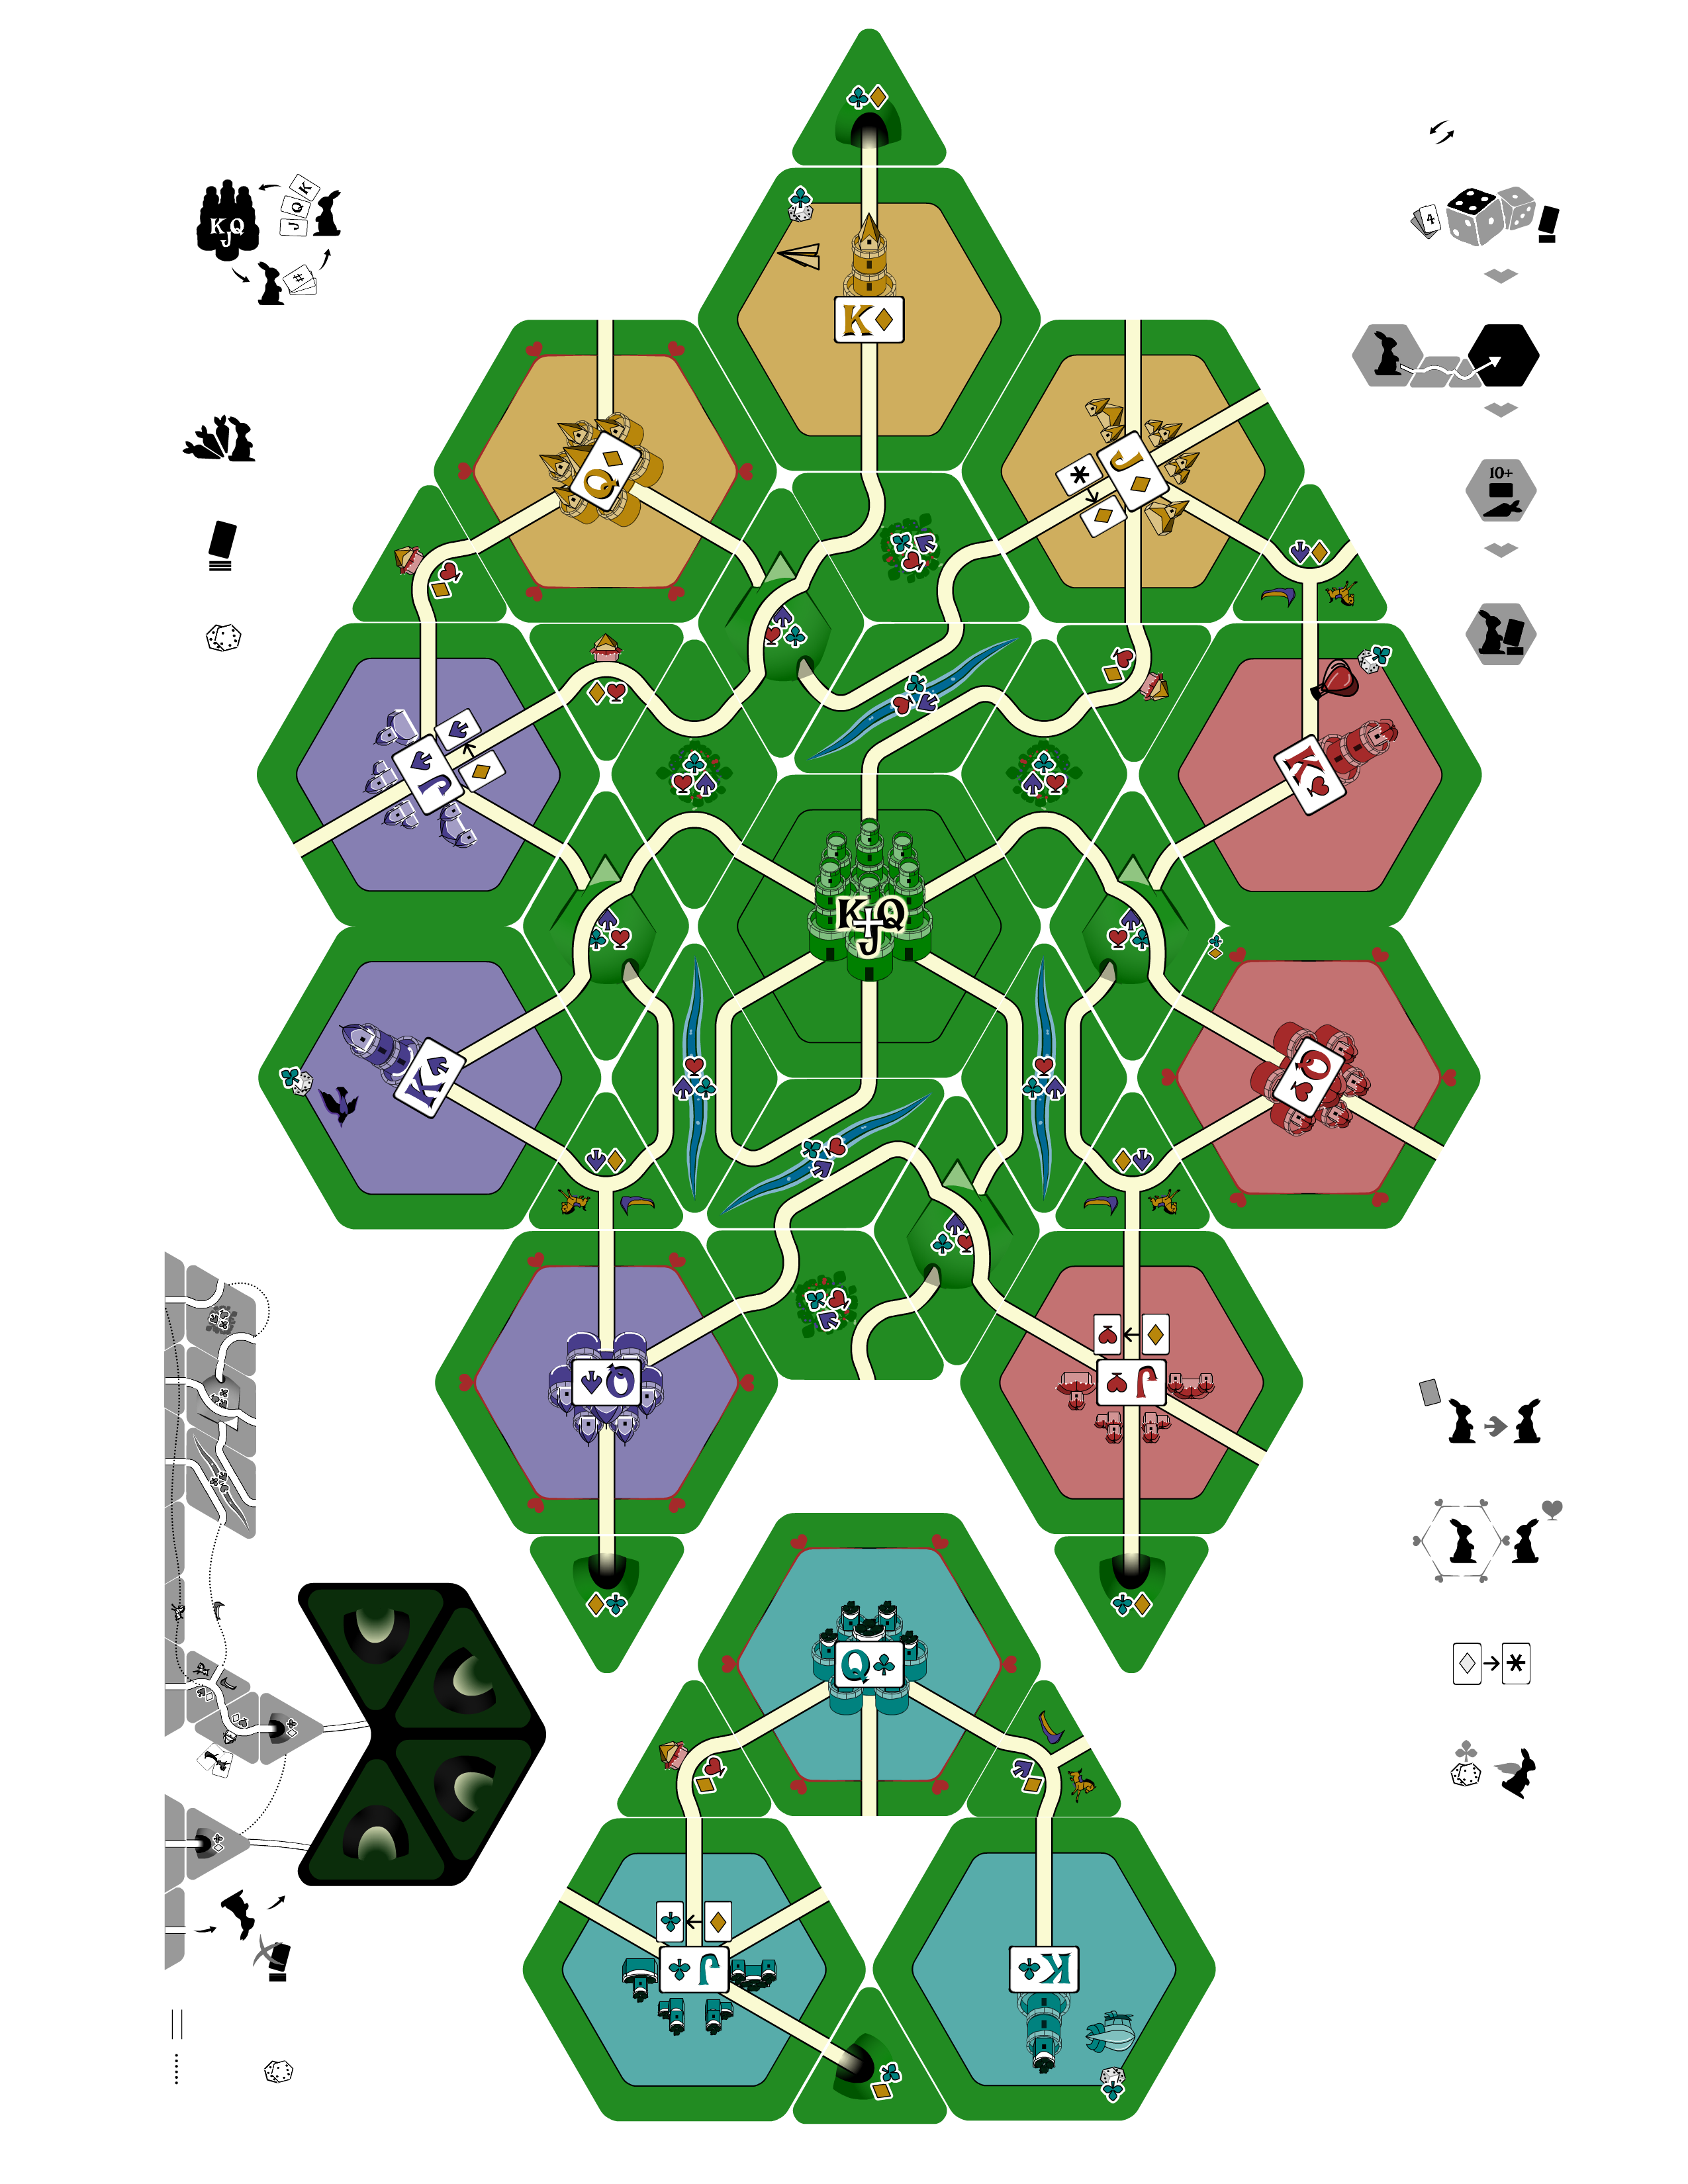
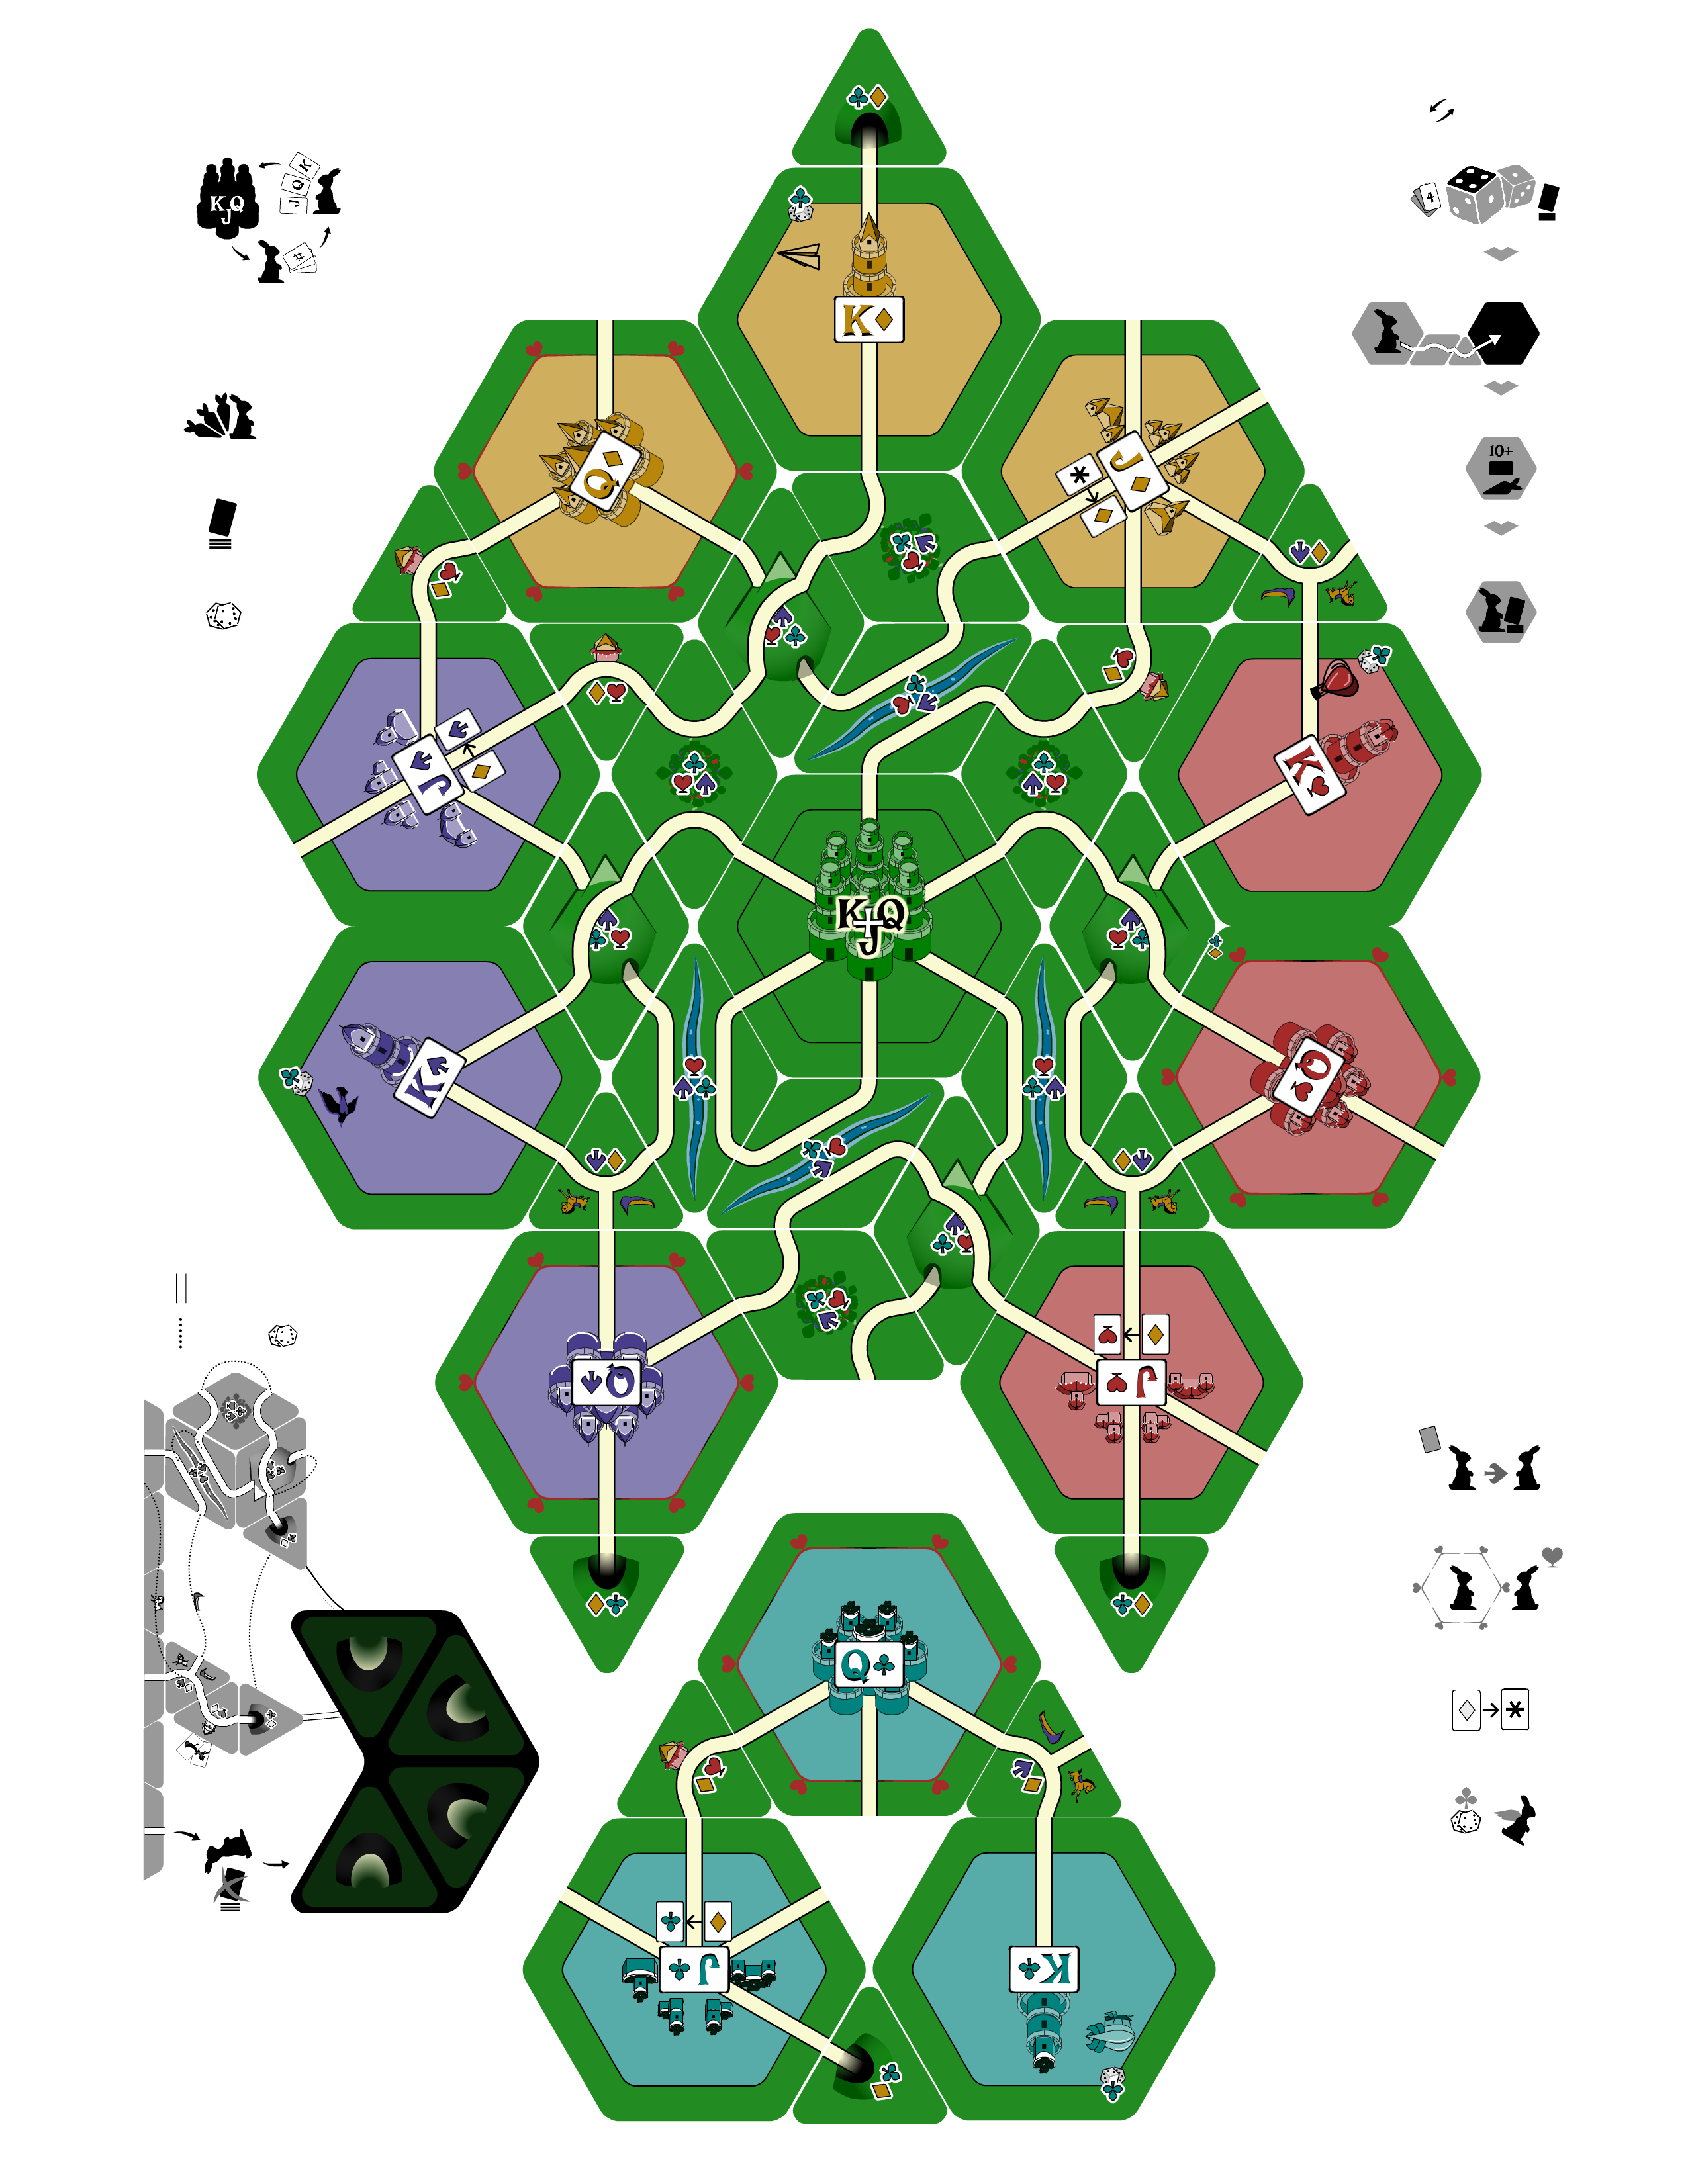
update

diff --git a/src/pages/sections/turns.js b/src/pages/sections/turns.js
@@ -7,8 +7,8 @@ const turnSections = [{
   a_button_play_song: Song.List[2].btn,
   img: new MediaFigure("lottery"),
   h3: Copy.text({
-    es: "1<small>.a</small> </br>La lotería",
-    en: "1<small>st</small> </br>The Lottery",
+    es: "Lotería",
+    en: "Lottery",
   }),
   p: versify(Copy.text({
     es: [
@@ -21,7 +21,7 @@ const turnSections = [{
       `22.5|El límite de cartas es de nueve. 
       Descarta la que quieras si te excedes.*`,
       `30.5|Conserva el resultado de los dados. 
-      Los usas en <a onclick="popUp('price')"><b>el precio</b></a> de traslados.`,
+      Los usas en el <a onclick="popUp('price')"><b>precio</b></a> de traslados.`,
     ],
     en: [
       `5|Start your turns by rolling dice,
@@ -33,15 +33,15 @@ const turnSections = [{
       `21.5|Please discard if caught with ten.
       Bring your hand to nine again.*`,
       `27|Hold the outcome of the dice.
-      Transfers use it as <a onclick="popUp('price')"><b>the price</b></a>.`
+      Transfers use it as the <a onclick="popUp('price')"><b>price</b></a>.`
     ]
   })),
   b_nextArrow: '➧',
 }, {
   img: new MediaFigure("journey"),
   h3: Copy.text({
-    es: "2<small>.a</small></br> La travesía",
-    en: "2<small>nd</small></br> The Journey",
+    es: "Travesía",
+    en: "Journey",
   }),
   p: versify(Copy.text({
     es: [
@@ -54,7 +54,7 @@ const turnSections = [{
       `57.5|Moverte de la pieza es opcional. 
       Depende de tu meta a visitar.`,
       `65.5|Podrías expandir tus travesías. 
-      Consulta <a href="#intro/transfers"><b>los traslados</b></a> en las vías.`
+      Consulta los <a href="#intro/transfers"><b>traslados</b></a> en las vías.`
     ],
     en: [
       `38|You may choose a path to exit, 
@@ -66,15 +66,15 @@ const turnSections = [{
       `54.5|Move on closer to your goal.
       Or perhaps don't move at all.`,
       `59.5|You may switch your travel mode.
-      See <a href="#intro/transfers"><b>the transfers</b></a> off the road.`,
+      See the <a href="#intro/transfers"><b>transfers</b></a> off the road.`,
     ]
   })),
   b_nextArrow: '➧',
 }, {
   img: new MediaFigure("acquisition"),
   h3: Copy.text({
-    es: "3<small>.a</small></br> La adquisición",
-    en: "3<small>rd</small></br> The Acquisition",
+    es: "Adquisición",
+    en: "Acquisition",
   }),
   p: versify(Copy.text({
     es: [
@@ -87,7 +87,7 @@ const turnSections = [{
       `92.5|Es gratis acceder a los hexágonos. 
       Procura detenerte visitándolos.`,
       `100|Conserva lo que adquieras en tu mano. 
-      Reclama <b>el incremento</b> de inmediato.`,
+      Reclama el <b>incremento</b> de inmediato.`,
     ],
     en: [
       `70.5|It’s your goal to claim the card—
@@ -99,15 +99,15 @@ const turnSections = [{
       `87|You may always be a guest.
       Make no claim and stop to rest.`,
       `92|Keep the royals in your hands.
-      Get <b>the increment</b> at once.`,
+      Get the <b>increment</b> at once.`,
     ]
   })),
   b_nextArrow: '➧',
 }, {
   img: new MediaFigure("increment"),
   h3: Copy.text({
-    es: "4<small>.a</small></br> El Incremento",
-    en: "4<small>th</small></br> The increment",
+    es: "Incremento",
+    en: "Increment",
   }),
   p: versify(Copy.text({
     es: [
@@ -120,7 +120,7 @@ const turnSections = [{
       `127|*Respeta lo del límite de cartas. 
       O ignóralo si nadie se percata.`,
       `135|**Podrías terminar sin incremento. 
-      Revísate <a href="#intro/off"><b>el destierro</b></a> en su segmento.`,
+      Revísate el <a href="#intro/off"><b>destierro</b></a> en su segmento.`,
     ],
     en: [
       `103|End your turns on a hex tile—

diff --git a/src/pages/sections/options.js b/src/pages/sections/options.js
@@ -72,17 +72,13 @@ const optionalSections = [
         p: versify(
           Copy.text({
             es: `Si eliges la <a class="pop" onclick="popUp('advancedCitadel', event)">carátula de atrás</a>,
-      incluyes estrategias importantes:
-      cuestionas corazones al entrar,
-      canjeas lo que quieras con diamantes,
-      y puedes con tus tréboles volar
-      con palos cualesquiera de restante.`,
-            en: `There are three depicted assets,
-      on this <a class="pop" onclick="popUp('advancedCitadel', event)">flip-side tile</a> reboot:
-      vet the hearts to grant the access;
-      buy with diamonds any loot; 
-      show your clubs for flying passes—
-      shortfall’s paid in any suit.`,
+              canjeas lo que quieras con diamantes,
+              cuestionas corazones y, al volar,
+              descartas con cualquiera lo restante.`,
+            en: `If the citadel's <a class="pop" onclick="popUp('advancedCitadel', event)">flipped over</a>:
+              buy with diamonds any loot,
+              vet with hearts and fly with clovers—
+              shortfall's paid in any suit.`,
           }),
         ),
       },
@@ -243,7 +239,7 @@ const optionalSections = [
       Contempla al escoger el <a class="pop" onclick="popUp('endings', event)">fin del juego</a>
       si acaso es imposible de obtener.`,
             en: `Have as many suits as players—
-royals scarce and roads reduced. 
+      royals scarce and roads reduced. 
       Say there's only three contenders, 
       then <a class="pop" onclick="popUp('roadTiles', event)">remove a set</a> and suit.
       Pick a fitting kind of ending:

diff --git a/src/pages/sections/transfers.js b/src/pages/sections/transfers.js
@@ -9,8 +9,8 @@ import Song from "../../elements/Song.js";
 const transferSections = [{
   a_button_play_song: Song.List[3].btn,
   h3: Copy.text({
-    es: "Los Traslados",
-    en: "The Transfers",
+    es: "Traslados",
+    en: "Transfers",
   }),
   p: versify(Copy.text({
     es: `3|Es gratis desplazarte a los hexágonos
@@ -19,13 +19,13 @@ const transferSections = [{
       se cruzan con sus túneles gratuitos.
       Se paga solamente los traslados,
       marcados a mitad de los polígonos;
-      <a onclick="popUp('price')"><b>el precio</b></a> es el fijado por los dados
+      el <a onclick="popUp('price')"><b>precio</b></a> es el fijado por los dados
       y pagas con las cartas de sus símbolos.`,
     en: `5|If you venture on the paths, 
       you'll move freely on your round.
       This includes the underpass,
       found in mountains farther down.
-      Other moves demand <a onclick="popUp('price')"><b>the price</b></a>,
+      Other moves demand the p<a onclick="popUp('price')"><b>rice</b></a>,
       paid in suits upon the ground.
       Pay the total on your dice—
       that's the minimum amount.`,
@@ -120,17 +120,17 @@ const transferSections = [{
   },
   h3: {
     html: Copy.text({
-      es: "El Destierro",
+      es: "Destierro",
       en: "Off-board",
     })
   },
   p_: versify(Copy.text({
     es: `127|A veces te conviene que salieras,
       cayendo de un camino a las orillas.
-      Olvida <b>el incremento</b> si lo hicieras
+      Olvida el <b>incremento</b> si lo hicieras
       y acaba con el turno a la deriva.
-      Mantén <b>la lotería</b> en las afueras,
-      y en vez de ejecutar <b>la travesía</b>,
+      Mantén la <b>lotería</b> en las afueras,
+      y en vez de ejecutar la <b>travesía</b>,
       te mueves al <a class="pop" onclick="popUp('underground', event)"><i>subsuelo</i></a> en el que esperas
       y eliges a la vuelta la salida.`,
     en: `118.5|If you venture off the board,

diff --git a/src/pages/setup.js b/src/pages/setup.js
@@ -9,15 +9,15 @@ const setupPage = {
     dataLyrics: 1,
     header: {
       h2: Copy.text({
-        es: "Prepara La Partida",
-        en: "Setting up the Game",
+        es: "Inicio de Partida",
+        en: "Game Setup",
       }),
     },
     section: [{
       a_button_play_song: Song.List[1].btn,
       h3: "1. </br>" + Copy.text({
         es: "Arma el tablero",
-        en: "Set the Board",
+        en: "Build the Board",
       }),
       p: versify(
         Copy.text({
@@ -60,8 +60,8 @@ const setupPage = {
         })),
     }, {
       h3: "2. </br>" + Copy.text({
-        es: "Reparte las cartas",
-        en: "Set the cards",
+        es: "Prepara las cartas",
+        en: "Prepare the cards",
       }),
       css: {
         ':nth-child(3)': {
@@ -106,8 +106,8 @@ const setupPage = {
         }))
     }, {
       h3: "3. </br>" + Copy.text({
-        es: "Sitúa las fichas",
-        en: "Set the tokens",
+        es: "Coloca las fichas",
+        en: "Place the tokens",
       }),
       p: versify(
         Copy.text({

diff --git a/src/pages/sections/strategies.js b/src/pages/sections/strategies.js
@@ -117,8 +117,8 @@ const strategySections = [{
   p: versify(Copy.text({
     es: [
       `11|Preséntate con carta pasaporte:
-      un trébol al lanzar <b>la lotería</b>,
-      y harás <b>la travesía</b> por las torres
+      un trébol al lanzar la <b>lotería</b>,
+      y harás la <b>travesía</b> por las torres
       si no lo sobrepasa lo que tiras.
       Igual el pasaporte lo recoges
       y el premio si un acierto se confirma.`,
@@ -133,11 +133,11 @@ const strategySections = [{
     ],
     en: [
       `10.5|Show one card before you roll,
-      cast <b>the journey</b> to the skies.
+      cast the <b>journey</b> to the skies.
       Pick a tower as a goal,
       if it beats the dice or ties. 
       Or you’ll miss the board and fall—
-      play <b>the lottery</b> likewise.
+      play the <b>lottery</b> likewise.
       Dropped off-board or standing tall,
       tumblers keep the card that tries.`,
       `43.5|Land your flight and don’t fall off,
@@ -173,7 +173,7 @@ const strategySections = [{
       procedes al asalto de sus cartas:
       le robas la primera que tocases,
       a ciegas deberás seleccionarla.
-      Te toca <b>el incremento</b> y que la marques,
+      Te toca el <b>incremento</b> y que la marques,
       si robas y la carta es de monarca;
       también elegirás la que descartes
       si acaso la que robas es tu cuarta.`,
@@ -196,7 +196,7 @@ const strategySections = [{
       If your target wins the war,
       they can’t steal a card you hoard.
       If you steal a royal card,
-      set <b>the acquisition</b> forth:
+      set the <b>acquisition</b> forth:
       place your carrot as the mark—
       give one up if it’s your fourth.`,
       /* 

diff --git a/src/copy.js b/src/copy.js
@@ -10,7 +10,7 @@ Copy.add({
     en: "Welcome",
   },
   setup: {
-    es: `Inicio</br><small style="white-space:nowrap">de partida</small>`,
+    es: `Partida`,
     en: "Setup",
   },
   intro: {

diff --git a/src/pages/home.js b/src/pages/home.js
@@ -28,7 +28,7 @@ const homePage = {
         content: Song.List[0].link,
       },
       p: versify(Copy.text({
-        es: `Dirígete al <a href="#setup"><b><big>Inicio</big></b> de partida</a>.
+        es: `Dirígete al inicio de <a href="#setup"><b><big>partida</big></b></a>.
         De un máximo de cuatro es permitida.`,
         en: `Let's review the <a href="#setup"><b><big>Setup</big></b></a> phase. 
         Up to four contenders race.`,